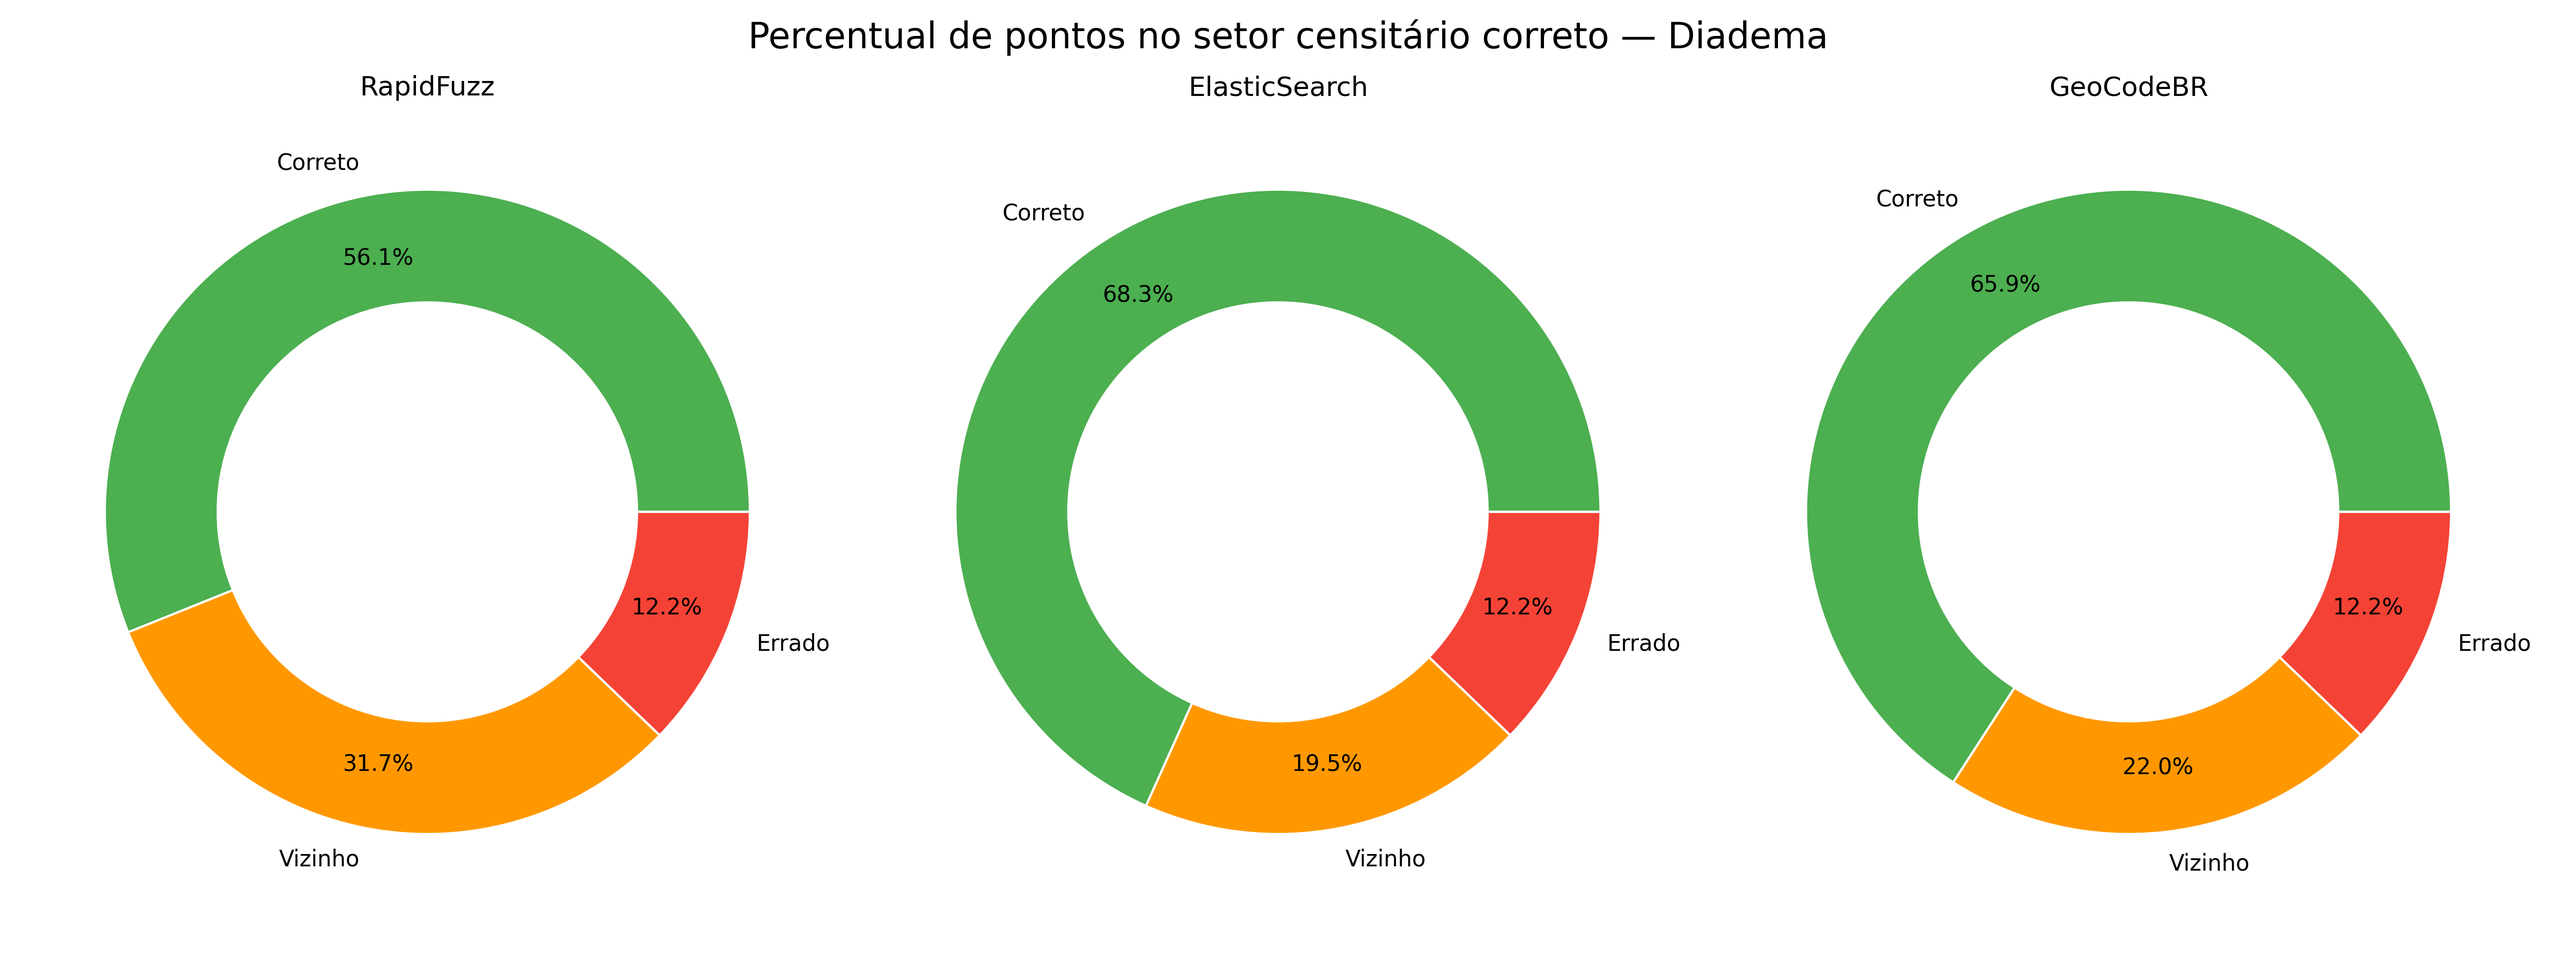
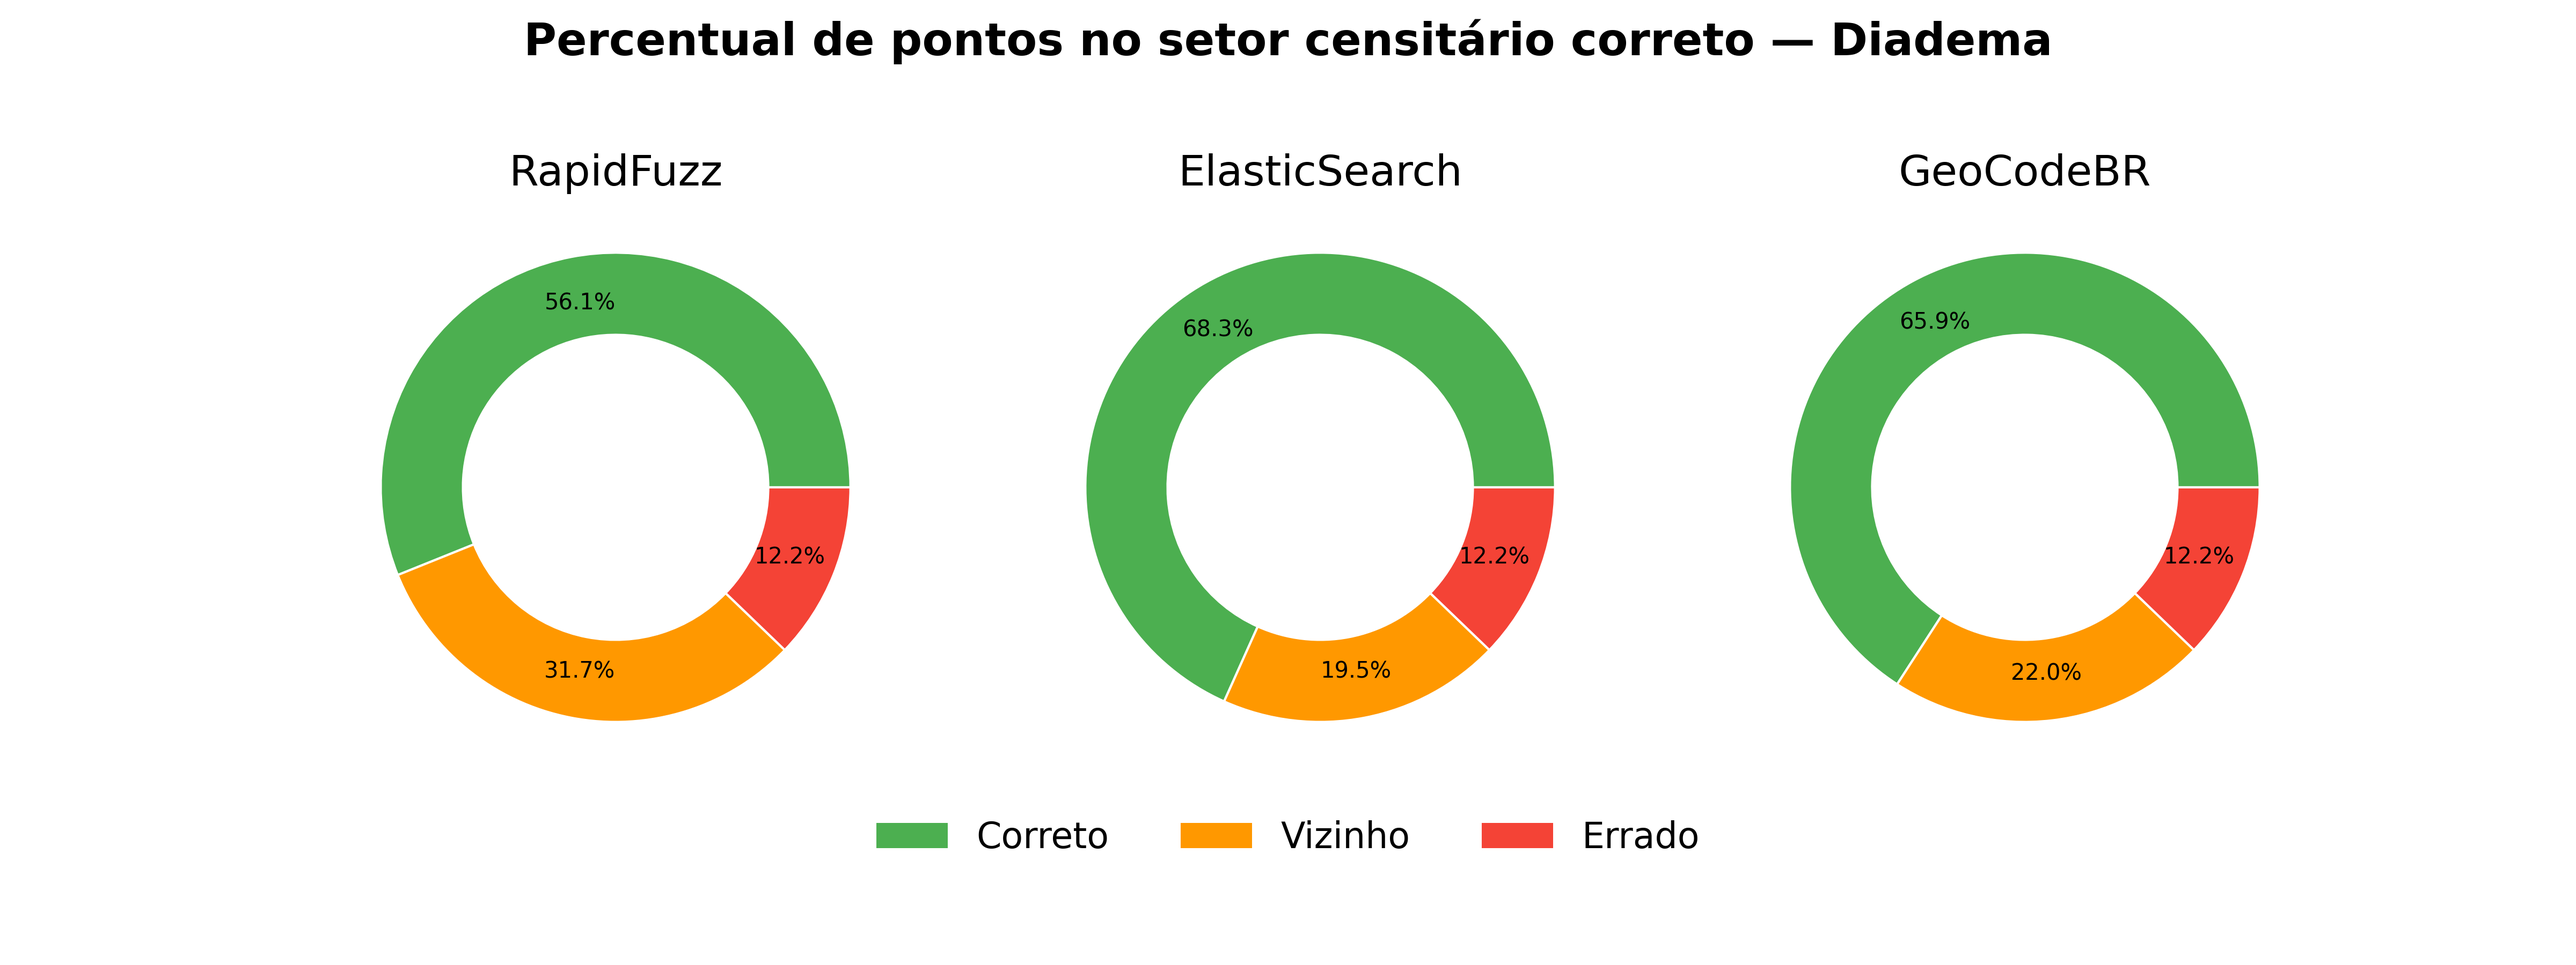
gráficos

diff --git a/source/resultados/graficos.py b/source/resultados/graficos.py
@@ -5,7 +5,6 @@ import seaborn as sns
 import os
 from scipy.stats import gaussian_kde
 
-
 # ============================================================
 # 1) CONFIGURAÇÃO GERAL — APENAS CAMINHOS DOS ARQUIVOS
 # ============================================================
@@ -67,45 +66,6 @@ def contar_match_mismatch(df):
         "mismatch": categorias.get("Vizinho", 0) + categorias.get("Errado", 0)
     }
 
-
-
-# ============================================================
-# 3) GRÁFICO DE ROSCA — MATCH / MISMATCH
-# ============================================================
-
-def grafico_rosca_match(df_por_algoritmo, nome_cidade, output_dir):
-
-    fig, axes = plt.subplots(1, len(df_por_algoritmo), figsize=(14, 6))
-
-    if len(df_por_algoritmo) == 1:
-        axes = [axes]
-
-    for ax, (alg, df) in zip(axes, df_por_algoritmo.items()):
-        cont = contar_match_mismatch(df)
-
-        valores = [cont["match"], cont["mismatch"]]
-        labels = ["Match", "Mismatch"]
-        cores  = ["#4CAF50", "#F44336"]
-
-        ax.pie(
-            valores,
-            labels=labels,
-            colors=cores,
-            autopct='%1.1f%%',
-            pctdistance=0.8,
-            labeldistance=1.1,
-            wedgeprops={'width': 0.35, 'edgecolor': 'white'}
-        )
-
-        ax.set_title(alg)
-
-    plt.suptitle(f"Percentual de pontos no setor censitário correto — {nome_cidade}", fontsize=15)
-    plt.tight_layout()
-    plt.savefig(f"{output_dir}/rosca_match.png", dpi=300)
-    plt.close()
-
-
-
 # ============================================================
 # 4) GRÁFICO DE ROSCA — CORRETO / VIZINHO / ERRADO
 # ============================================================
@@ -131,7 +91,6 @@ def grafico_rosca_categorias(df_por_algoritmo, nome_cidade, output_dir):
 
         ax.pie(
             valores,
-            labels=labels,
             colors=[cores[k] for k in labels],
             autopct='%1.1f%%',
             pctdistance=0.8,
@@ -139,10 +98,33 @@ def grafico_rosca_categorias(df_por_algoritmo, nome_cidade, output_dir):
             wedgeprops={'width': 0.35, 'edgecolor': 'white'}
         )
 
-        ax.set_title(alg)
+        ax.set_title(alg, fontsize=19, pad=-40)
 
-    plt.suptitle(f"Percentual de pontos no setor censitário correto — {nome_cidade}", fontsize=16)
-    plt.tight_layout()
+    plt.suptitle(
+        f"Percentual de pontos no setor censitário correto — {nome_cidade}",
+        fontsize=20,
+        weight="bold"
+    )
+
+
+    from matplotlib.patches import Patch
+
+    legendas = [
+        Patch(facecolor=cores["Correto"], label="Correto"),
+        Patch(facecolor=cores["Vizinho"], label="Vizinho"),
+        Patch(facecolor=cores["Errado"],  label="Errado")
+    ]
+
+    fig.legend(
+        handles=legendas,
+        loc='lower center',
+        ncol=3,
+        fontsize=16,
+        frameon=False,
+        bbox_to_anchor=(0.5, 0.08)   # legenda sobe
+    )
+
+    #plt.tight_layout()
     plt.savefig(f"{output_dir}/rosca_categorias.png", dpi=300)
     plt.close()
 
@@ -163,15 +145,15 @@ def grafico_kde(df_all, nome_cidade, output_dir):
     sns.kdeplot(
         data=df_all,
         x="desvio_metros",
-        hue="alg",
-        clip=(0, None),
-        linewidth=2
+        hue="algoritmo",
+        #clip=(0, None),
+        linewidth=2.5
     )
 
-    plt.title(f"Distribuição do erro de distância (real vs encontrado) — {nome_cidade}")
-    plt.xlabel("Erro de distância (m)")
-    plt.ylabel("Densidade de ocorrências")
-    plt.tight_layout()
+    plt.title(f"Distribuição do erro de distância (real vs encontrado) — {nome_cidade}", fontsize=18, weight="bold")
+    plt.xlabel("Erro de distância (m)", fontsize=12)
+    plt.ylabel("Densidade de ocorrências", fontsize=12)
+    #plt.tight_layout()
     plt.savefig(f"{output_dir}/kde_distancia.png", dpi=300)
     plt.close()
 
@@ -199,7 +181,7 @@ if __name__ == "__main__":
                 continue
 
             df = pd.read_csv(arq)
-            df["alg"] = alg
+            df["algoritmo"] = alg
             dfs_algoritmos[alg] = df
 
         # Concatenado geral para o KDE
